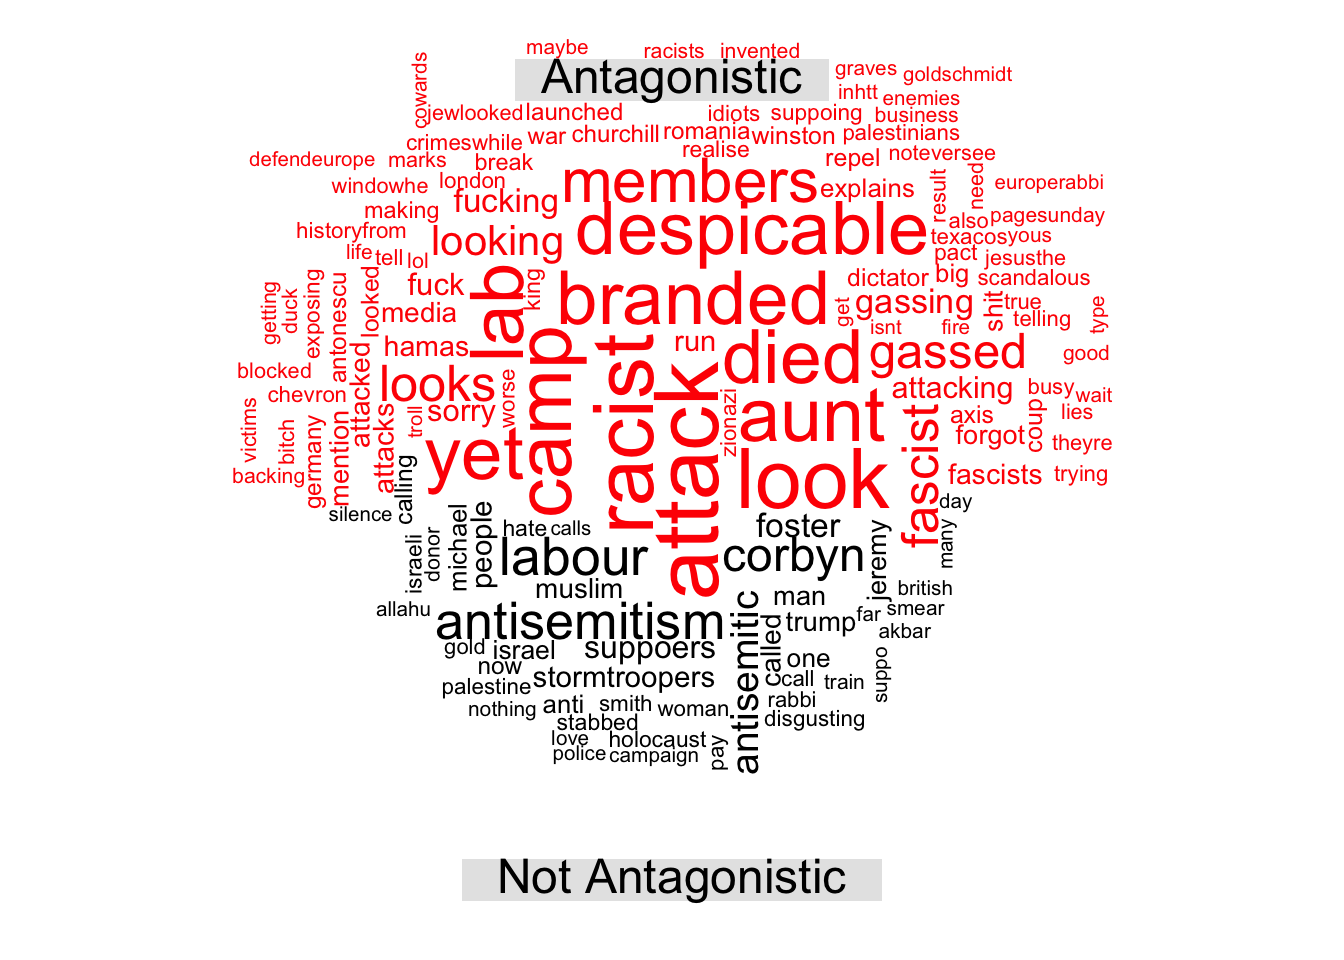
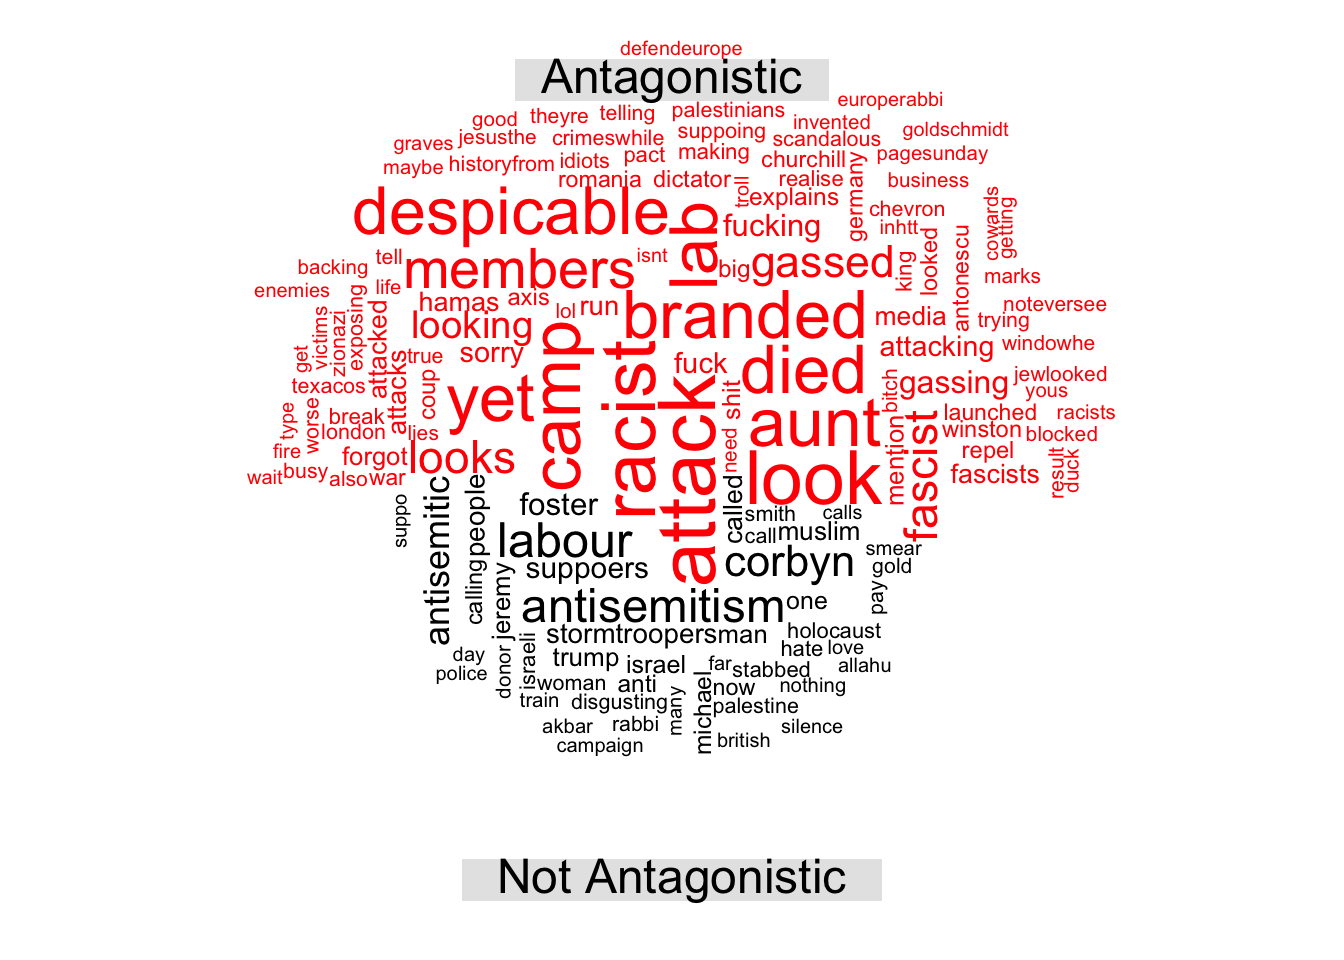
Build site.

Changed region(s): [[0.1562, 0.0625, 0.8438, 0.8125], [0.4688, 0.0312, 0.5938, 0.0625], [0.4062, 0.0312, 0.4375, 0.0625]]

diff --git a/docs/first-analysis.html b/docs/first-analysis.html
@@ -319,7 +319,7 @@ shared across the workflowr files. -->
 <p><strong>Last updated:</strong> 2017-11-03</p>
 <!-- Insert the code version (Git commit SHA1) if Git repository exists and R
  package git2r is installed -->
-<p><strong>Code version:</strong> 217d96a</p>
+<p><strong>Code version:</strong> 5fc591b</p>
 <!-- Add your analysis here -->
 <pre class="r"><code>library(tidyverse)</code></pre>
 <pre><code>Loading tidyverse: ggplot2
@@ -430,7 +430,7 @@ colnames(tdm_both) &lt;-  c(&quot;Antagonistic&quot;, &quot;Not Antagonistic&quo
 <p>And here is a comparison cloud. Note that words from antagonistic content are in <strong>red</strong> and words from non-antagonistic content are in <strong>black</strong>.</p>
 <pre class="r"><code>comparison.cloud(tdm_both, random.order=FALSE,
                  colors = c(&quot;red&quot;, &quot;black&quot;),
-                 scale = c(2.8, 0.5),
+                 scale = c(2.5, 0.5),
                  title.size=1.5, max.words=150, rot.per = 0.3)</code></pre>
 <p><img src="figure/first-analysis.Rmd/unnamed-chunk-3-1.png" width="672" style="display: block; margin: auto;" /></p>
 <p>Lastly, the most common 25 words between groups.</p>
